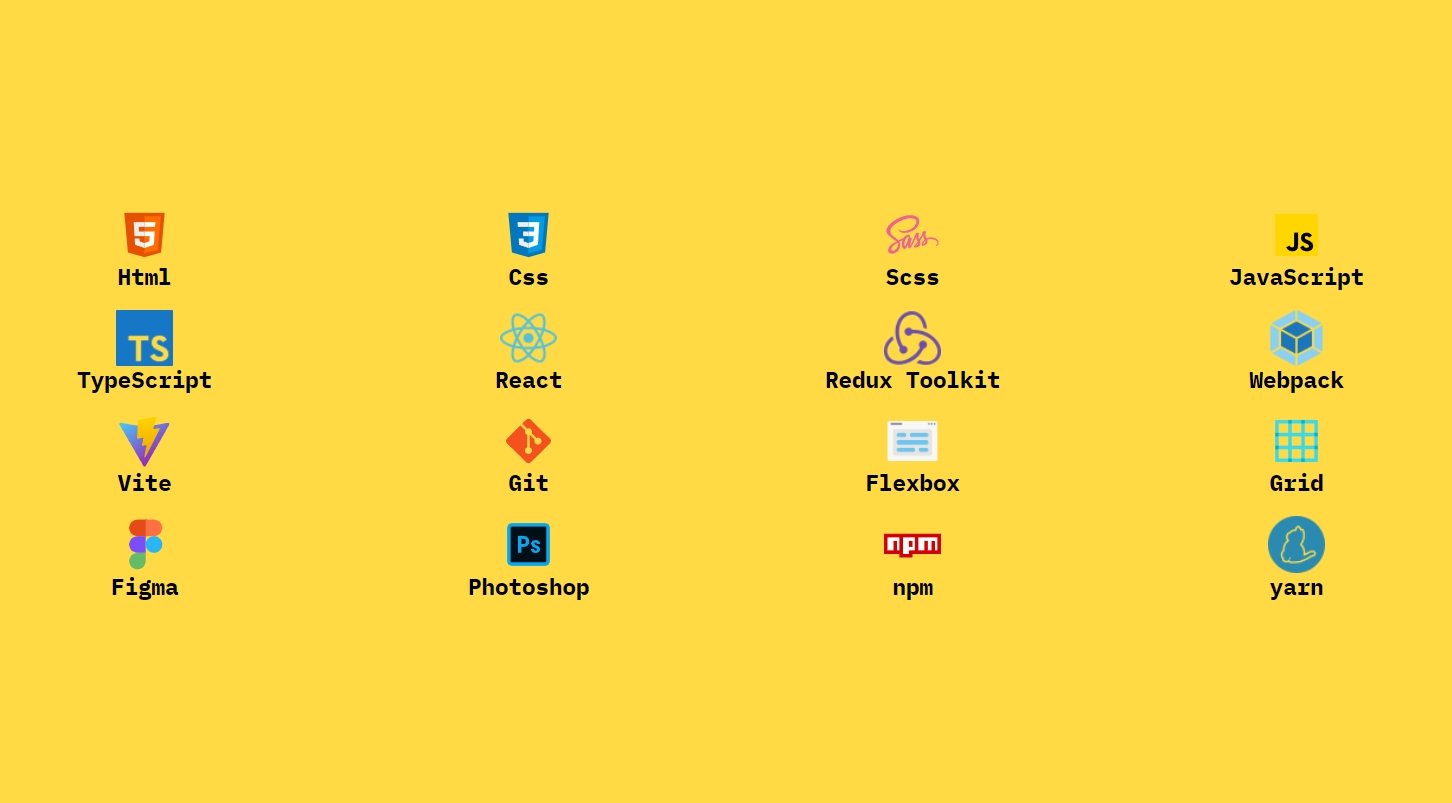
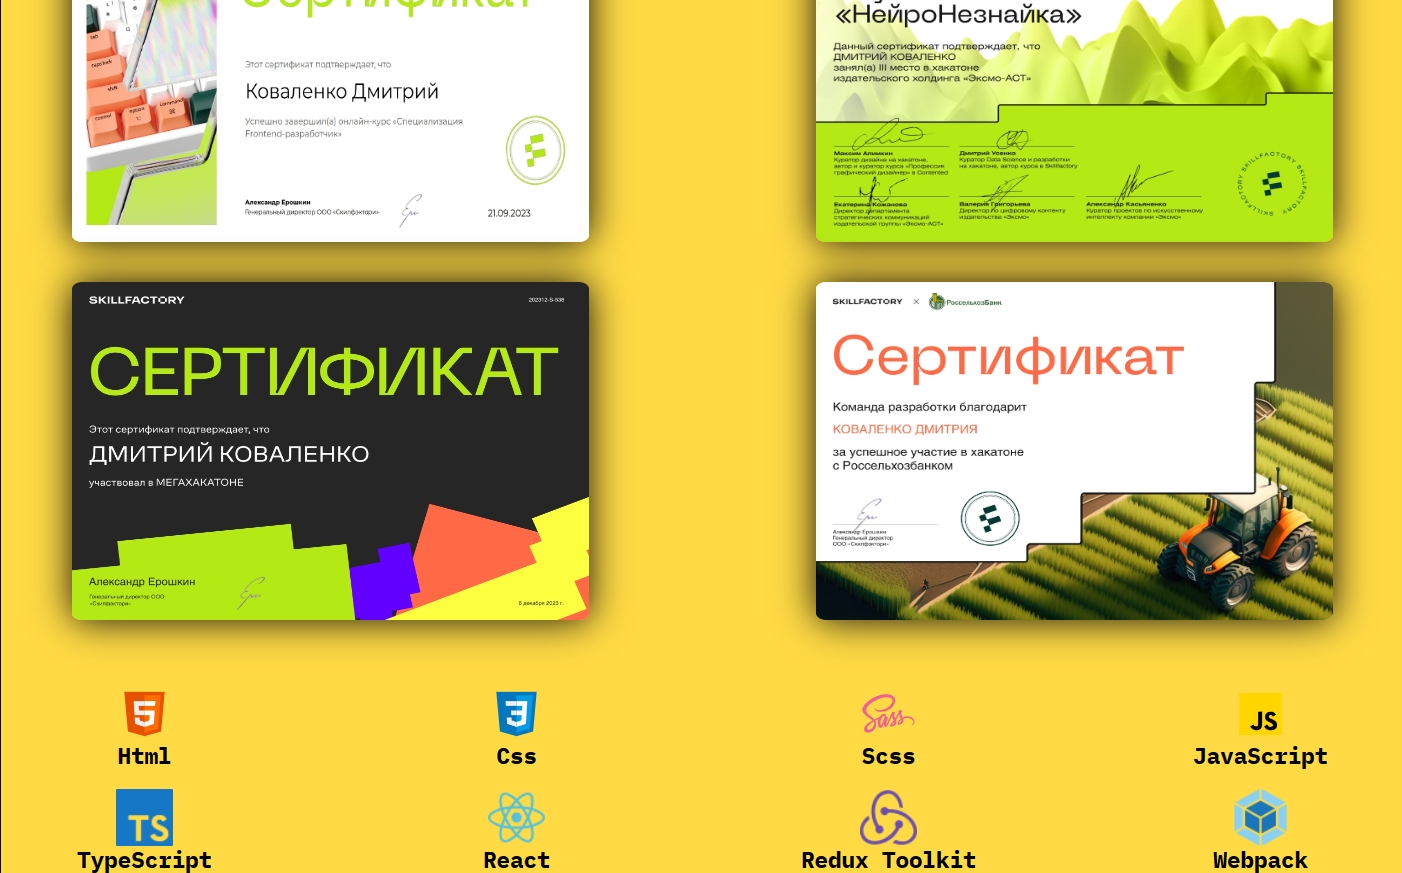
add certificate

diff --git a/src/components/skills/Skills.module.scss b/src/components/skills/Skills.module.scss
@@ -1,38 +1,54 @@
+@import '../../assets/styles/variables';
+
 .wrapper {
 	display: grid;
-	grid-template-columns: repeat(4, 1fr);
+	grid-template-columns: repeat(1, 1fr);
 	align-items: center;
 	justify-content: center;
 	gap: 6%;
+	position: relative;
 
-	> .block__image {
-		display: flex;
-		flex-direction: column;
+	> .block__certificate {
+		display: grid;
+		grid-template-columns: repeat(2, 1fr);
+		margin-top: 45%;
 		align-items: center;
 		justify-content: center;
+		gap: 6%;
 
-		> .image {
-			width: 2.5em;
-			height: 2.5em;
-			box-shadow: 0px 0px 0px rgba($color: #000000, $alpha: 0);
-		}
-
-		> p {
-			font-size: 1em;
-			font-weight: 700;
+		> img {
+			width: 23em;
+			height: 15em;
+			box-shadow: 0px 0px 30px $color_two;
+			align-self: center;
+			justify-self: center;
 		}
 	}
 
-	// > .button__authors {
-	// 	position: absolute;
-	// 	z-index: 99;
-	// 	bottom: -80%;
-	// 	right: 0;
+	> .block__skills {
+		display: grid;
+		grid-template-columns: repeat(4, 1fr);
+		gap: 6%;
+		margin-bottom: 10%;
 
-	// 	&:hover {
-	// 		cursor: pointer;
-	// 	}
-	// }
+		> .block__image {
+			display: flex;
+			flex-direction: column;
+			align-items: center;
+			justify-content: center;
+
+			> .image {
+				width: 2.5em;
+				height: 2.5em;
+				box-shadow: 0px 0px 0px rgba($color: #000000, $alpha: 0);
+			}
+
+			> p {
+				font-size: 1em;
+				font-weight: 700;
+			}
+		}
+	}
 
 	> .block__authors {
 	}

diff --git a/src/components/skills/Skills.tsx b/src/components/skills/Skills.tsx
@@ -26,14 +26,23 @@ const Skills: FC = () => {
 
 	return (
 		<div className={styles.wrapper}>
-			{arrImage.map(img => {
-				return (
-					<div className={styles.block__image}>
-						<img className={styles.image} src={img.src} alt='img' />
-						<p>{img.name}</p>
-					</div>
-				);
-			})}
+			<div className={styles.block__certificate}>
+				<img src='./images/certificate/skillfactory.jpg' alt='img' />
+				<img src='./images/certificate/NEZNAIKA.jpg' alt='img' />
+				<img src='./images/certificate/MEGA.jpg' alt='img' />
+				<img src='./images/certificate/РСХБ.jpg' alt='img' />
+			</div>
+			<div className={styles.block__skills}>
+				{arrImage.map(img => {
+					return (
+						<div className={styles.block__image}>
+							<img className={styles.image} src={img.src} alt='img' />
+							<p>{img.name}</p>
+						</div>
+					);
+				})}
+			</div>
+
 			{isAuthor && (
 				<div className={styles.block__authors}>
 					<a target='_blank' href='https://icons8.com/icon/20909/html-5'>

diff --git a/src/components/detail-page/DetailPage.module.scss b/src/components/detail-page/DetailPage.module.scss
@@ -254,6 +254,7 @@
 	flex-direction: column;
 	gap: 2em;
 	position: relative;
+	height: 3em;
 
 	> .line {
 		width: 100%;
@@ -264,8 +265,8 @@
 	> .button__authors {
 		position: absolute;
 		z-index: 99;
-		bottom: -40%;
-		right: 0;
+		bottom: 30%;
+		right: -190%;
 		background-color: rgba($color: #000000, $alpha: 0);
 		font-size: 1em;
 		font-weight: 600;

diff --git a/src/dataPageInfo.ts b/src/dataPageInfo.ts
@@ -19,7 +19,7 @@ const dataPageInfo: IPageInfo[] = [
 		//yellow
 		id: 3,
 		pageName: 'skills',
-		h2: 'Мои навыки',
+		h2: 'Навыки и достижения',
 		text: 'Html, Css, Scss, JavaScript, TypeScript, React, Redux Toolkit, Webpack, Vite, Git, Adobe Photoshop, Figma',
 	},
 	{
